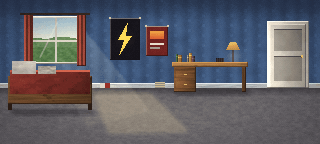
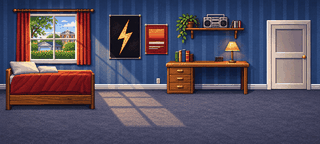
Martys Zimmer: Hintergrund des Nutzers, Klickflächen angepasst

diff --git a/src/game/rooms/martys_zimmer.ts b/src/game/rooms/martys_zimmer.ts
@@ -16,7 +16,7 @@ export const martysZimmer: RoomDef = {
           {
             id: 'fenster',
             name: 'hotspot.fenster',
-            area: rect(30, 18, 50, 44),
+            area: rect(16, 10, 74, 52),
             walkTo: [100, 96],
             face: 'links',
             comments: { schauan: 'say.prolog.zimmer_fenster', oeffne: 'say.prolog.zimmer_fenster_oeffne' },
@@ -24,7 +24,7 @@ export const martysZimmer: RoomDef = {
           {
             id: 'bett',
             name: 'hotspot.bett',
-            area: rect(8, 62, 84, 48),
+            area: rect(6, 62, 89, 49),
             walkTo: [100, 106],
             face: 'links',
             comments: { schauan: 'say.prolog.zimmer_bett', benutze: 'say.prolog.zimmer_bett_benutze' },
@@ -32,7 +32,7 @@ export const martysZimmer: RoomDef = {
           {
             id: 'poster',
             name: 'hotspot.poster',
-            area: rect(110, 18, 58, 42),
+            area: rect(108, 14, 60, 46),
             walkTo: [140, 96],
             face: 'hinten',
             comments: { schauan: 'say.prolog.zimmer_poster', nimm: 'say.prolog.zimmer_poster_nimm' },
@@ -40,7 +40,7 @@ export const martysZimmer: RoomDef = {
           {
             id: 'schreibtisch',
             name: 'hotspot.schreibtisch',
-            area: rect(172, 42, 76, 50),
+            area: rect(166, 44, 84, 50),
             walkTo: [210, 96],
             face: 'hinten',
             comments: { schauan: 'say.prolog.zimmer_schreibtisch', oeffne: 'say.prolog.zimmer_schublade' },
@@ -80,7 +80,7 @@ export const martysZimmer: RoomDef = {
           {
             id: 'tuer',
             name: 'hotspot.tuer_kueche',
-            area: rect(268, 22, 40, 66),
+            area: rect(267, 20, 43, 70),
             walkTo: [287, 96],
             face: 'hinten',
             comments: { schauan: 'say.prolog.zimmer_tuer' },

diff --git a/tools/paint/build.ts b/tools/paint/build.ts
@@ -107,7 +107,7 @@ const UI: Record<string, () => Picture> = {
 };
 
 /** Vom Nutzer gezeichnete Bilder: Sie werden nie übermalt, auch nicht mit --force oder Namensfilter. */
-const EIGENE_BILDER = new Set(['titel']);
+const EIGENE_BILDER = new Set(['titel', 'martys_zimmer_1986']);
 
 const args = process.argv.slice(2);
 const force = args.includes('--force');
